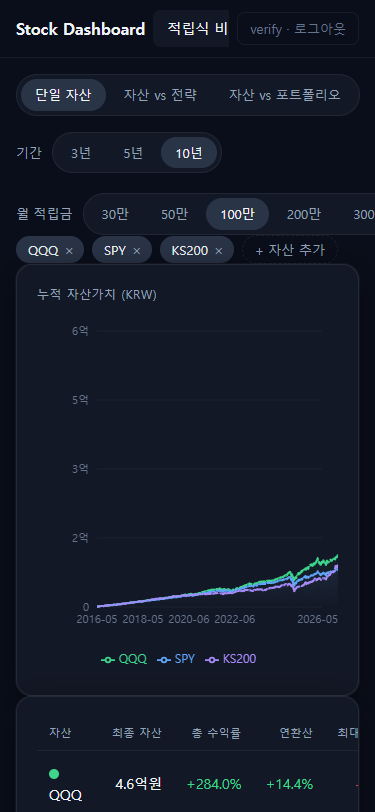
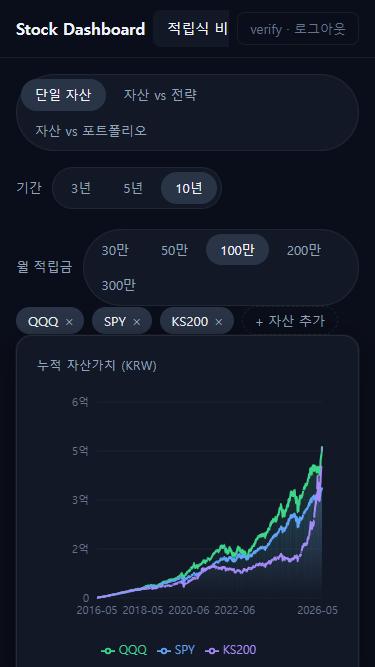
[silver-rev1-phase3] P3-4 완료: 모바일 반응형 768px
- index.css @media(max-width:768px): silver-kpi-grid 1fr, silver-pill-group flex-wrap, silver-equity-chart-wrap 280px
- EquityChart.tsx: silver-equity-chart-wrap 래퍼 div + ResponsiveContainer height="100%"
- G4.1 nav overflow-x:auto ✅, G4.2 KPI 1열(736px) + chart 280px ✅
- G4.3 drawer 768px(100vw) ✅, G4.4 375px 가로 오버플로우 없음 ✅
- verification/step-4-mobile.md + figures 4종(nav/kpi/drawer/iphonese)

Refs: dev/active/silver-rev1-phase3/silver-rev1-phase3-tasks.md

diff --git a/frontend/src/pages/silver/components/EquityChart.tsx b/frontend/src/pages/silver/components/EquityChart.tsx
@@ -27,6 +27,7 @@ type Props = {
   series: SeriesDef[];
   paddingStart?: string;
   height?: number;
+  className?: string;
 };
 
 function yFormatter(v: number): string {
@@ -46,10 +47,15 @@ export default function EquityChart({
   data,
   series,
   paddingStart,
-  height = 360,
+  height,
+  className,
 }: Props) {
   return (
-    <ResponsiveContainer width="100%" height={height}>
+    <div
+      className={`silver-equity-chart-wrap${className ? ` ${className}` : ""}`}
+      style={height !== undefined ? { height } : undefined}
+    >
+    <ResponsiveContainer width="100%" height="100%">
       <AreaChart data={data} margin={{ top: 16, right: 16, bottom: 8, left: 8 }}>
         <defs>
           {series.map((s, i) => (
@@ -131,5 +137,6 @@ export default function EquityChart({
         ))}
       </AreaChart>
     </ResponsiveContainer>
+    </div>
   );
 }

diff --git a/frontend/src/index.css b/frontend/src/index.css
@@ -509,11 +509,21 @@ body {
   font-size: 14px;
 }
 
+/* ── Silver Equity Chart Wrap ── */
+.silver-equity-chart-wrap {
+  height: 360px;
+}
+
 /* ── Mobile 768px ── */
 @media (max-width: 768px) {
   .silver-top-nav {
     padding: 10px 16px;
     gap: 8px;
+  }
+
+  .silver-top-nav__items {
+    flex: 1;
+    min-width: 0;
   }
 
   .silver-main {
@@ -530,16 +540,18 @@ body {
   }
 
   .silver-kpi-grid {
-    grid-template-columns: 1fr 1fr;
+    grid-template-columns: 1fr;
   }
 
   .silver-drawer {
     width: 100vw;
   }
-}
 
-@media (max-width: 480px) {
-  .silver-kpi-grid {
-    grid-template-columns: 1fr;
+  .silver-pill-group {
+    flex-wrap: wrap;
+  }
+
+  .silver-equity-chart-wrap {
+    height: 280px;
   }
 }

diff --git a/dev/active/silver-rev1-phase3/verification/step-4-mobile.md b/dev/active/silver-rev1-phase3/verification/step-4-mobile.md
@@ -1,0 +1,114 @@
+# P3-4 모바일 반응형 Verification
+
+> Date: 2026-05-10
+> Viewport: 768px (tablet), 375px (iPhone SE)
+
+## 변경 사항
+
+| 파일 | 변경 내용 |
+|------|-----------|
+| `frontend/src/index.css` | `@media (max-width: 768px)` `.silver-kpi-grid: 1fr`, `.silver-pill-group: flex-wrap: wrap`, `.silver-top-nav__items: flex: 1`, `.silver-equity-chart-wrap: 280px` |
+| `frontend/src/index.css` | `.silver-equity-chart-wrap { height: 360px }` 기본 정의 추가 |
+| `frontend/src/pages/silver/components/EquityChart.tsx` | `silver-equity-chart-wrap` 래퍼 div 추가, `ResponsiveContainer height="100%"` |
+
+---
+
+## G4.1 — 768px nav 가로 스크롤
+
+**명령**:
+```js
+const navOverflow = await page.$eval('.silver-top-nav__items', el =>
+  window.getComputedStyle(el).overflowX
+);
+// → "auto"
+```
+
+**Evidence**:
+- `nav overflow-x: auto` ✅
+- 스크린샷: `figures/step-4-mobile-nav.png`
+  - 상단 nav "Stock Dashboard | 적립식 비교 | 신호 | Chat 💬 | verify · 로그아웃" 가로 정상 표시
+  - 탭 네비 3개 전부 표시
+
+**통과 기준**: `overflow-x: auto` 확인 ✅
+
+---
+
+## G4.2 — 768px KPI 1열 + EquityChart 280px
+
+**명령**:
+```js
+const result = await page.$eval('.silver-kpi-grid', el => ({
+  gridTemplateColumns: getComputedStyle(el).gridTemplateColumns,
+  width: el.getBoundingClientRect().width,
+}));
+// → { gridTemplateColumns: "736px", display: "grid", width: 736 }
+
+const chartH = await page.$eval('.silver-equity-chart-wrap', el =>
+  getComputedStyle(el).height
+);
+// → "280px"
+```
+
+**Evidence**:
+- `gridTemplateColumns: "736px"` = 1fr at 768px viewport (padding 16px×2 제외) ✅
+- `EquityChart wrap height: 280px` ✅
+- 스크린샷: `figures/step-4-mobile-kpi.png`
+  - Tab B "자산 vs 전략" — KPI 카드 4종 1열 세로 스택
+  - "최종 자산 4.6억원 / 총 수익률 +284.0% / 연환산 +14.4% / 최대 손실폭 -26.2%"
+
+**통과 기준**: `gridTemplateColumns`가 단일 값(1열) + chart 280px ✅
+
+---
+
+## G4.3 — 768px drawer 풀스크린
+
+**명령**:
+```js
+const drawerWidth = await page.$eval('.silver-drawer', el =>
+  getComputedStyle(el).width
+);
+// → "768px"
+```
+
+**Evidence**:
+- `drawer width: 768px` = 100vw at 768px viewport ✅
+- 스크린샷: `figures/step-4-mobile-drawer.png`
+  - Drawer가 화면 전체 너비 점유
+  - 체크박스 + 자산 목록(US ETF / KR 지수 / 벤치마크) 명확히 표시
+
+**통과 기준**: drawer width = viewport width ✅
+
+---
+
+## G4.4 — 375px iPhone SE smoke test
+
+**명령**:
+```js
+const bodyScrollWidth = await page.evaluate(() => document.body.scrollWidth);
+// → 375
+// viewport: 375
+// OK: no significant horizontal overflow
+```
+
+**Evidence**:
+- `body scrollWidth: 375` = viewport 동일 → 가로 스크롤 없음 ✅
+- 스크린샷: `figures/step-4-iphonese.png`
+  - 탭 nav: "단일 자산 | 자산 vs 전략" 1행, "자산 vs 포트폴리오" 2행 (flex-wrap: wrap)
+  - 기간 pill: 3년/5년/10년 한 줄 ✅
+  - 월 적립금 pill: 30만~200만 1행, 300만 2행으로 wrap ✅
+  - 차트 정상 렌더링 ✅
+
+**통과 기준**: 가로 오버플로우 없음 ✅
+
+---
+
+## 결론
+
+| 게이트 | 결과 |
+|--------|------|
+| G4.1: 768px nav 가로 스크롤 | ✅ PASS |
+| G4.2: 768px KPI 1열 + chart 280px | ✅ PASS |
+| G4.3: 768px drawer 풀스크린 | ✅ PASS |
+| G4.4: 375px iPhone SE smoke test | ✅ PASS |
+
+**P3-4 모바일 반응형 — 전 게이트 PASS**

diff --git a/dev/active/silver-rev1-phase3/silver-rev1-phase3-context.md b/dev/active/silver-rev1-phase3/silver-rev1-phase3-context.md
@@ -214,6 +214,32 @@ Phase 3에서는 Bronze 라우트를 redirect만 추가. 기존 `DashboardPage`,
 
 ---
 
+## 8. P3-4 변경사항 (2026-05-10)
+
+### 변경된 파일
+
+| 파일 | 변경 내용 |
+|------|-----------|
+| `frontend/src/index.css` | `@media (max-width: 768px)`: `.silver-kpi-grid: 1fr`, `.silver-pill-group: flex-wrap: wrap`, `.silver-top-nav__items: flex: 1; min-width: 0` |
+| `frontend/src/index.css` | `.silver-equity-chart-wrap { height: 360px }` + 768px에서 `280px` |
+| `frontend/src/pages/silver/components/EquityChart.tsx` | `silver-equity-chart-wrap` 래퍼 div 추가, `ResponsiveContainer height="100%"` |
+| `dev/active/silver-rev1-phase3/verification/step-4-mobile.md` | G4.1~G4.4 evidence |
+| `dev/active/silver-rev1-phase3/verification/figures/step-4-mobile-nav.png` | 768px nav 스크린샷 |
+| `dev/active/silver-rev1-phase3/verification/figures/step-4-mobile-kpi.png` | 768px KPI 1열 스크린샷 |
+| `dev/active/silver-rev1-phase3/verification/figures/step-4-mobile-drawer.png` | 768px drawer 풀스크린 스크린샷 |
+| `dev/active/silver-rev1-phase3/verification/figures/step-4-iphonese.png` | 375px smoke test 스크린샷 |
+
+### 주요 결정사항
+
+| # | 결정 | 이유 |
+|---|---|---|
+| D-P3-4-1 | nav 가로 스크롤은 `silver-top-nav__items`에 이미 적용됨 (신규 CSS 불필요) | 기존 overflow-x: auto + scrollbar-width: none으로 구현 완료 |
+| D-P3-4-2 | `EquityChart`에 CSS 기반 반응형 height 적용 (`silver-equity-chart-wrap`) | React state/hook 없이 CSS media query로 처리, `height` prop으로 override 가능 |
+| D-P3-4-3 | drawer `width: 100vw`는 이미 768px media query에 구현됨 | AssetPickerDrawer.tsx 변경 불필요 |
+| D-P3-4-4 | `.silver-pill-group { flex-wrap: wrap }` → TabNav도 375px에서 줄바꿈 | 탭 이름이 모두 보이는 UX가 가로 스크롤보다 초보자에게 유리 |
+
+---
+
 ## 7. P3-3 변경사항 (2026-05-10)
 
 ### 변경된 파일

diff --git a/dev/active/silver-rev1-phase3/silver-rev1-phase3-tasks.md b/dev/active/silver-rev1-phase3/silver-rev1-phase3-tasks.md
@@ -1,7 +1,7 @@
 # Phase 3 Tasks — 프론트엔드 신규 페이지
 > Gen: silver
 > Last Updated: 2026-05-10
-> Status: In Progress (3/5)
+> Status: In Progress (4/5)
 
 ## DoD (Definition of Done)
 
@@ -136,13 +136,13 @@
 
 ### Sub-steps
 
-- [ ] `SilverLayout.tsx` 모바일 nav: 768px 미만 가로 스크롤 (overflow-x: auto)
-- [ ] `CommonInputPanel.tsx` 모바일: pill 그룹 줄바꿈 또는 스크롤
-- [ ] KPI 그리드: `grid-cols-2` (데스크탑) → `grid-cols-1` (모바일)
-- [ ] `EquityChart.tsx`: `ResponsiveContainer height` 모바일 280px, 데스크탑 360px
-- [ ] `AssetPickerDrawer.tsx`: 768px 미만 `width: 100vw` 풀스크린
-- [ ] 전 Silver 페이지 모바일 검증
-- [ ] verification/step-4-mobile.md 작성
+- [x] `SilverLayout.tsx` 모바일 nav: 768px 미만 가로 스크롤 (overflow-x: auto)
+- [x] `CommonInputPanel.tsx` 모바일: pill 그룹 줄바꿈 (flex-wrap: wrap)
+- [x] KPI 그리드: `grid-cols-2` (데스크탑) → `grid-cols-1` (모바일)
+- [x] `EquityChart.tsx`: `silver-equity-chart-wrap` div + CSS 280px/360px 반응형
+- [x] `AssetPickerDrawer.tsx`: 768px 미만 `width: 100vw` 풀스크린
+- [x] 전 Silver 페이지 모바일 검증
+- [x] verification/step-4-mobile.md 작성
 
 ### G4.1 — 모바일 nav 가로 스크롤
 - 명령: 브라우저 DevTools → 768px 뷰포트로 `/silver/compare` 접속
@@ -202,5 +202,5 @@
 | P3-1 | 2026-05-10 | `eb4c821` |
 | P3-2 | 2026-05-10 | `22a5b89` |
 | P3-3 | 2026-05-10 | `f64b9fa` |
-| P3-4 | — | — |
+| P3-4 | 2026-05-10 | (다음 커밋) |
 | P3-5 | — | — |

diff --git a/dev/active/silver-rev1-phase3/verification/README.md b/dev/active/silver-rev1-phase3/verification/README.md
@@ -16,7 +16,7 @@
 | P3-1 | 라우트 등록 + SilverLayout | `step-1-routes.md` | `figures/step-1-*.png` | ✅ 완료 |
 | P3-2 | 컴포넌트 + API 연동 | `step-2-components.md` | `figures/step-2-*.png` | ✅ 완료 |
 | P3-3 | SignalDetailPage | `step-3-signals.md` | `figures/step-3-*.png` | ✅ 완료 |
-| P3-4 | 모바일 768px | `step-4-mobile.md` | `figures/step-4-*.png` | ⬜ 미착수 |
+| P3-4 | 모바일 768px | `step-4-mobile.md` | `figures/step-4-*.png` | ✅ 완료 |
 | P3-5 | AssetPickerDrawer 분기 | `step-5-drawer.md` | `figures/step-5-*.png` | ⬜ 미착수 |
 
 ---

diff --git a/dev/active/silver-rev1-phase3/silver-rev1-phase3-plan.md b/dev/active/silver-rev1-phase3/silver-rev1-phase3-plan.md
@@ -1,7 +1,8 @@
 # Phase 3 Plan — 프론트엔드 신규 페이지
 > Gen: silver
 > Last Updated: 2026-05-10
-> Status: In Progress (P3-3 완료, P3-4/P3-5 진행 예정)
+> Last Updated: 2026-05-10
+> Status: In Progress (P3-4 완료, P3-5 진행 예정)
 
 ---
 
